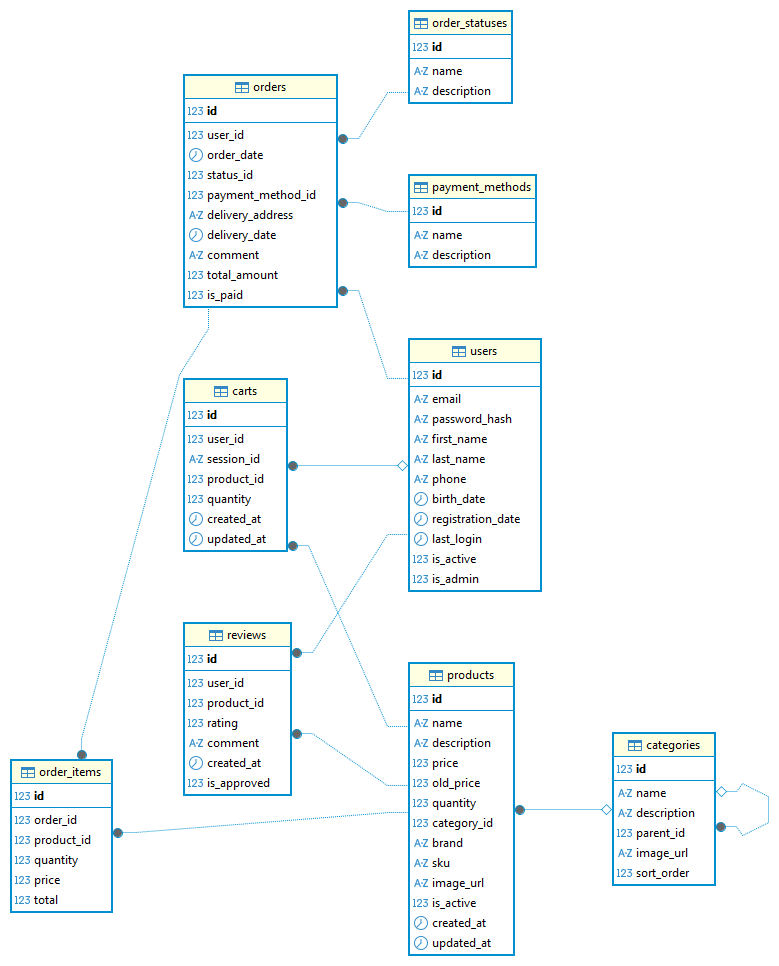
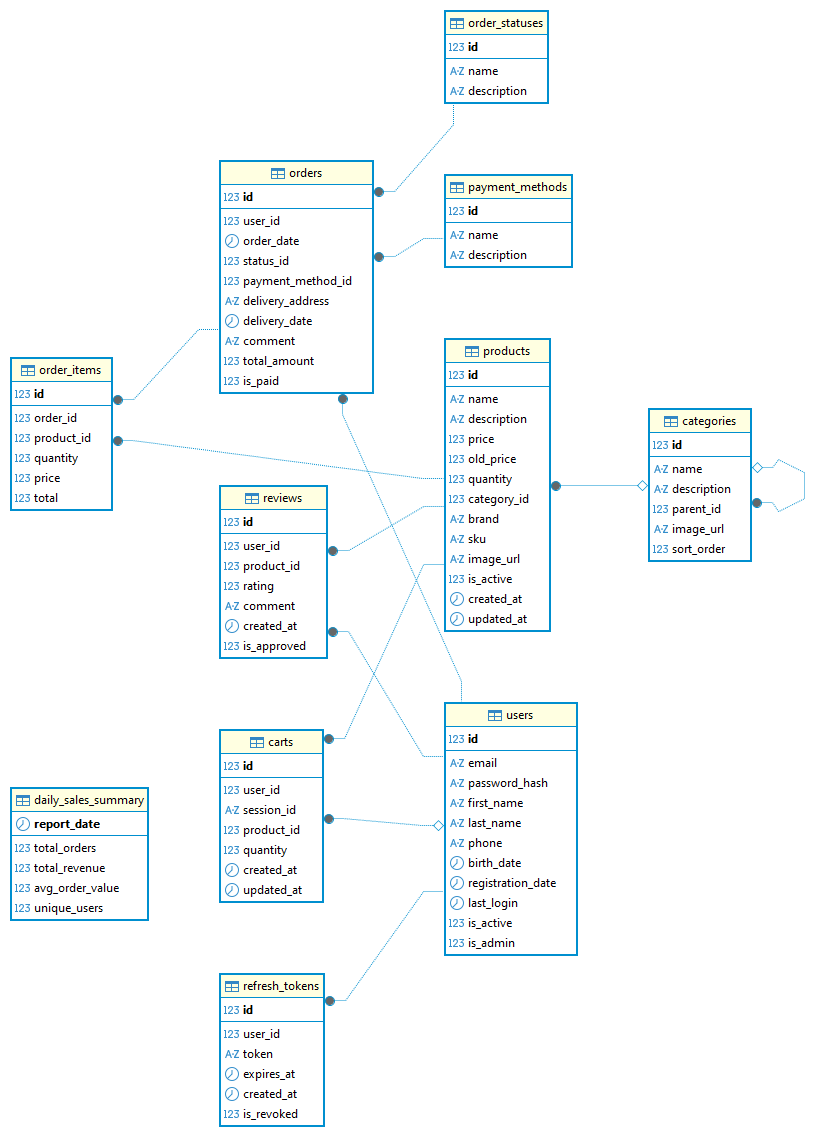
Добавил таблицу-витрину, процедуру и ивент ее обновляющие, так же обновил диаграмму бд и ридми

diff --git a/2. Toystore - SQL traning/README.md b/2. Toystore - SQL traning/README.md
@@ -30,6 +30,7 @@ SQL-тренажер: База данных интернет-магазина
 
 Дополнено:  
 - **`refresh_tokens`** — таблица для хранения токенов
+- **`daily_sales_summary`** - автоматически обновляемая раз в день таблица для пересчета статистики
 
 ---
 
@@ -56,6 +57,14 @@ SQL-тренажер: База данных интернет-магазина
 Полный список запросов можно посмотреть в папке `/queries`.
 
 ---
+
+## Автоматизация обновления витрины
+
+- Создана хранимая процедура refresh_daily_sales_summary для пересчета ежедневной статистики.
+
+- Настроено расписание (EVENT) для автоматического обновления каждый день в 2:00.
+
+- Это гарантирует актуальность данных в дашбордах без ручного вмешательства.
 
 ## Каким неочевидным вещам я научился
 

diff --git a/2. Toystore - SQL traning/queries/README.md b/2. Toystore - SQL traning/queries/README.md
@@ -18,3 +18,5 @@
 | 16 | Показать единый список действий пользователелей | `16_user_actions.sql` | Union all |
 | 17 | Посчитать общую сумму оплаченных заказов и общую сумму неоплаченных заказов | `17_union_sum_payment_status` | Union all |
 | 18 | Сравнить активность пользователей по месяцам | `18_activity_by_month.sql` | Извлечение частей даты (`month`), `LEFT JOIN` с сгенерированным календарем, группировка по вычисляемому полю, Union all|
+| 19 | Вывести сумму предыдущего заказа | `19_previous_order` | Оконные функции, lag, row_number |
+| 20 | Процедура обновления таблицы-витрины | `refresh_summary_procedure.sql` | Создание и вызов процедур, ивенты |
